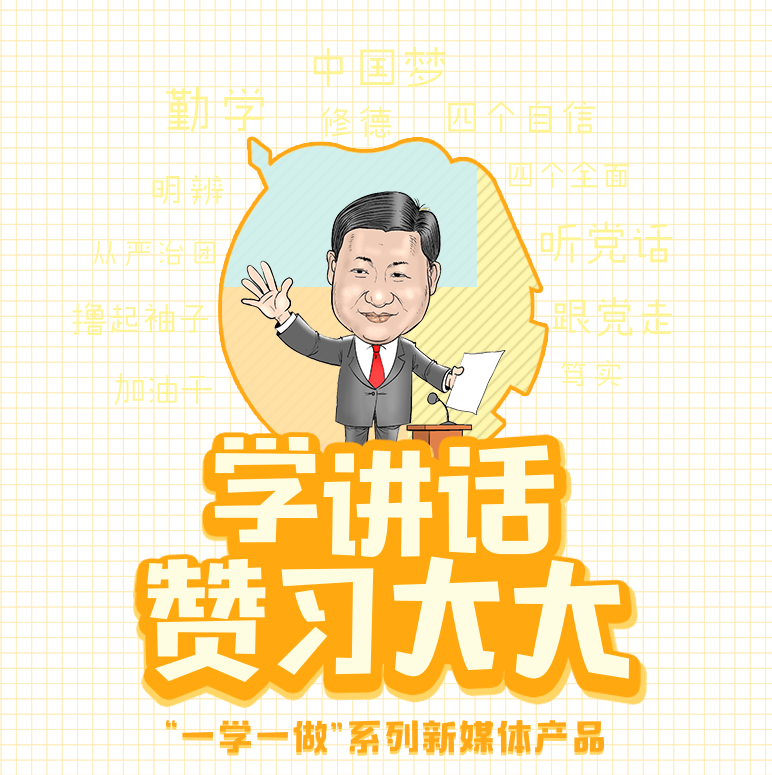
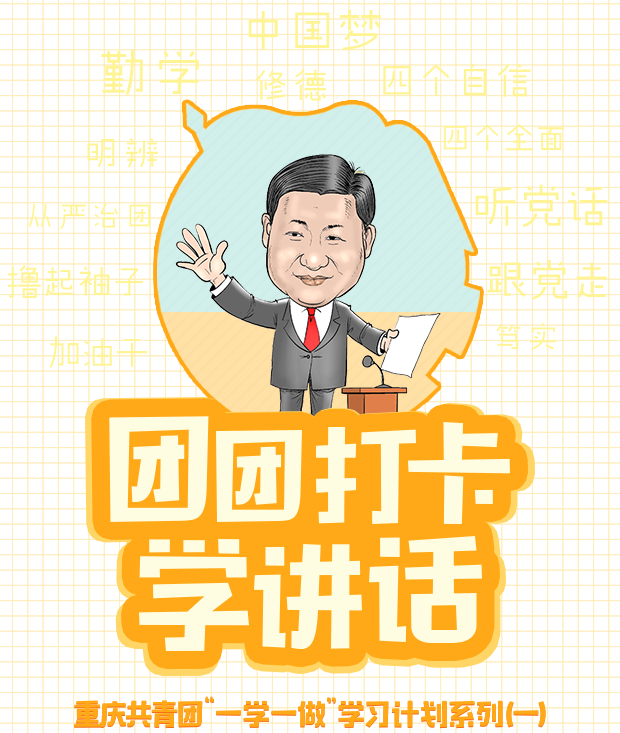
503

diff --git a/Public/css/stlye.css b/Public/css/stlye.css
@@ -39,9 +39,9 @@
   margin: 0 auto;
 }
 #beginPage .beginImg {
-  width: 90%;
+  width: 83%;
   display: block;
-  margin: 3% auto;
+  margin: 4% auto;
 }
 #beginPage #btnContainer {
   width: 100%;
@@ -49,6 +49,13 @@
   position: absolute;
   z-index: 100;
   top:0;
+}
+.logo{
+  position: absolute;
+  left:3%;
+  top:2.2%;
+  width: 35%;
+  z-index: 100;
 }
 #beginPage #btnContainer div {
   width: 45%;
@@ -203,7 +210,7 @@
   position: relative;
 }
 #gamePage .questionContainer .flag {
-  width: 22%;
+  width: 48%;
   position: absolute;
   left: -10px;
   top: -10px;
@@ -276,6 +283,11 @@
   width: 73%;
   display: block;
   margin: 3% auto;
+  margin-top: 10%;
+}
+#overPage .secondState .logo{
+  top:0.7%;
+  left: 2.6%;
 }
 #overPage .secondState .cardBack {
   width: 73%;

diff --git a/Application/Home/View/Index/index.html b/Application/Home/View/Index/index.html
@@ -20,6 +20,7 @@
 
         </div>
         <div data-role="page" id="beginPage">
+            <img src="__PUBLIC__/images/tuanLogo.png" alt="" class="logo">
             <img src="__PUBLIC__/images/beginXi.png" alt="" class="animated pulse beginImg">
             <div id="btnContainer">
                 <div class="startBtn btn"></div>
@@ -130,6 +131,7 @@
                 </div>
             </div>
             <div class="secondState">
+                <img src="__PUBLIC__/images/tuanLogo.png" alt="" class="logo">
                 <img src="__PUBLIC__/images/myCardtitle.png" alt="" class="cardTitle">
                 <div class="cardBack">
                     <p class="num">1</p>

diff --git a/Public/js/styleSet.js b/Public/js/styleSet.js
@@ -16,7 +16,7 @@ $(function(){
     $('.return').css('left',$(window).width()*0.35);
     $('.cardBack').css({'left':$(window).width()*0.135,'height':$(window).width()*0.81});
     $('.ok').css('margin-top',$(window).width()*0.89);
-    $('.btnC').css('top',$(window).width()*1.1);
+    $('.btnC').css('top',$(window).width()*1.13);
     $('.warning').css({'left':$(window).width()*0.15,'height':$(window).width()*0.7});
     $('.avatar').css('height',$(window).width()*0.208);
     $('.avatarBox').css('height',$(window).width()*0.056);
